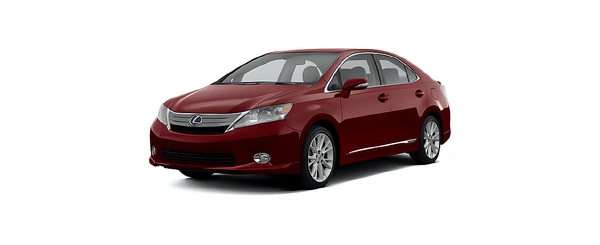
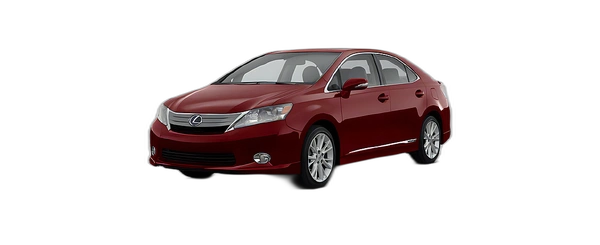
Rebuild all vehicle images with background removal and add 10 new models

diff --git a/vehicle_images/index.html b/vehicle_images/index.html
@@ -53,6 +53,17 @@
             <img src="https://krystiankrasno.github.io/vehicle_images/vehicle_images/images-web/cah.webp" alt="Camry" title="CAH">
             <figcaption>Camry <small>(CAH)</small></figcaption>
         </figure>
+        <figure>
+            <img src="https://krystiankrasno.github.io/vehicle_images/vehicle_images/images-web/cam.webp" alt="Camry" title="CAM">
+            <figcaption>Camry <small>(CAM)</small></figcaption>
+        </figure>
+    </div>
+    <h2>Celica</h2>
+    <div class="grid">
+        <figure>
+            <img src="https://krystiankrasno.github.io/vehicle_images/vehicle_images/images-web/cel.webp" alt="Celica" title="CEL">
+            <figcaption>Celica <small>(CEL)</small></figcaption>
+        </figure>
     </div>
     <h2>Corolla</h2>
     <div class="grid">
@@ -84,6 +95,13 @@
             <figcaption>Corolla Cross <small>(CCR)</small></figcaption>
         </figure>
     </div>
+    <h2>Cressida</h2>
+    <div class="grid">
+        <figure>
+            <img src="https://krystiankrasno.github.io/vehicle_images/vehicle_images/images-web/cre.webp" alt="Cressida" title="CRE">
+            <figcaption>Cressida <small>(CRE)</small></figcaption>
+        </figure>
+    </div>
     <h2>Crown</h2>
     <div class="grid">
         <figure>
@@ -108,6 +126,13 @@
         <figure>
             <img src="https://krystiankrasno.github.io/vehicle_images/vehicle_images/images-web/esh.webp" alt="ES" title="ESH">
             <figcaption>ES <small>(ESH)</small></figcaption>
+        </figure>
+    </div>
+    <h2>Echo</h2>
+    <div class="grid">
+        <figure>
+            <img src="https://krystiankrasno.github.io/vehicle_images/vehicle_images/images-web/ech.webp" alt="Echo" title="ECH">
+            <figcaption>Echo <small>(ECH)</small></figcaption>
         </figure>
     </div>
     <h2>FJ Cruiser</h2>
@@ -176,6 +201,10 @@
         <figure>
             <img src="https://krystiankrasno.github.io/vehicle_images/vehicle_images/images-web/is.webp" alt="IS" title="IS">
             <figcaption>IS <small>(IS)</small></figcaption>
+        </figure>
+        <figure>
+            <img src="https://krystiankrasno.github.io/vehicle_images/vehicle_images/images-web/isc.webp" alt="IS" title="ISC">
+            <figcaption>IS <small>(ISC)</small></figcaption>
         </figure>
     </div>
     <h2>LC</h2>
@@ -403,6 +432,10 @@
     <h2>Unknown</h2>
     <div class="grid">
         <figure>
+            <img src="https://krystiankrasno.github.io/vehicle_images/vehicle_images/images-web/ecb.webp" alt="ECB" title="ECB">
+            <figcaption>ECB <small>(ECB)</small></figcaption>
+        </figure>
+        <figure>
             <img src="https://krystiankrasno.github.io/vehicle_images/vehicle_images/images-web/l-c.webp" alt="L-C" title="L-C">
             <figcaption>L-C <small>(L-C)</small></figcaption>
         </figure>
@@ -430,6 +463,34 @@
         <figure>
             <img src="https://krystiankrasno.github.io/vehicle_images/vehicle_images/images-web/bzd.webp" alt="bZ" title="BZD">
             <figcaption>bZ <small>(BZD)</small></figcaption>
+        </figure>
+    </div>
+    <h2>iM</h2>
+    <div class="grid">
+        <figure>
+            <img src="https://krystiankrasno.github.io/vehicle_images/vehicle_images/images-web/im.webp" alt="iM" title="IM">
+            <figcaption>iM <small>(IM)</small></figcaption>
+        </figure>
+    </div>
+    <h2>iQ</h2>
+    <div class="grid">
+        <figure>
+            <img src="https://krystiankrasno.github.io/vehicle_images/vehicle_images/images-web/iq.webp" alt="iQ" title="IQ">
+            <figcaption>iQ <small>(IQ)</small></figcaption>
+        </figure>
+    </div>
+    <h2>xB</h2>
+    <div class="grid">
+        <figure>
+            <img src="https://krystiankrasno.github.io/vehicle_images/vehicle_images/images-web/xb.webp" alt="xB" title="XB">
+            <figcaption>xB <small>(XB)</small></figcaption>
+        </figure>
+    </div>
+    <h2>xD</h2>
+    <div class="grid">
+        <figure>
+            <img src="https://krystiankrasno.github.io/vehicle_images/vehicle_images/images-web/xd.webp" alt="xD" title="XD">
+            <figcaption>xD <small>(XD)</small></figcaption>
         </figure>
     </div>
 </body>
